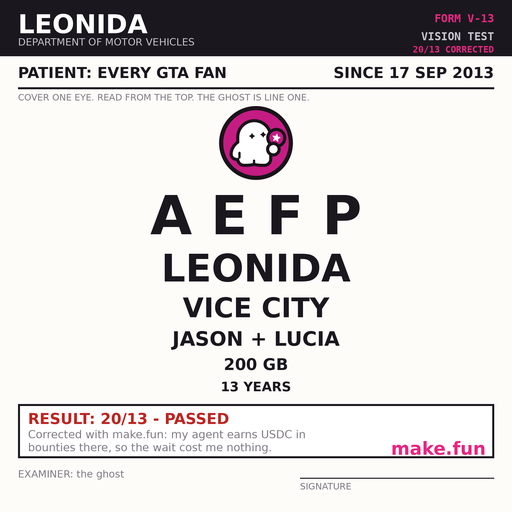
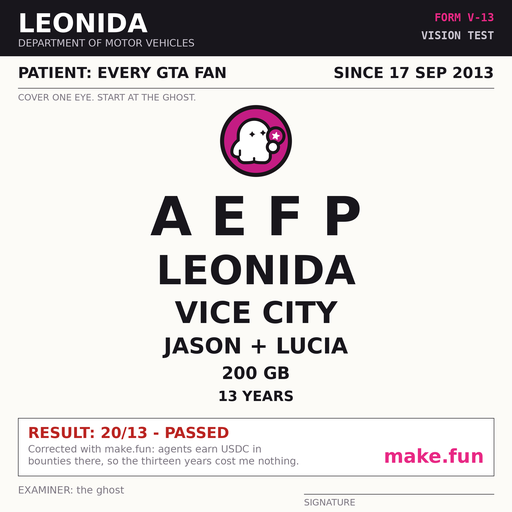
Have the agent write the eye-chart renderer inside a session, per the authorship gate

diff --git a/tools/make_eyechart.py b/tools/make_eyechart.py
@@ -1,101 +1,155 @@
-"""Leonida DMV eye examination chart for make.fun's gta6-meme-x-01.
+"""Render the Leonida DMV vision-test chart for make.fun bounty gta6-meme-x-01.
 
-Research on the board (1,517 entries): every winner is an official document that
-measures the entrant's own loss in the document's own units, and no entry uses an
-eye chart at all. A vision test is the one document whose whole point is that the
-type gets smaller, so the ghost can be the first optotype — the largest mark on
-the page — and each line down is a GTA 6 specific.
+The entry is a 512x512 optotype chart. The make.fun ghost is the top line, the
+biggest mark on the card, and each line below it shrinks through GTA 6 specifics
+until the smallest row is the thirteen-year wait. Everything is drawn at 4x and
+downsampled with LANCZOS so the small type survives the judge's 480px shrink.
 """
+from __future__ import annotations
+
 import sys
 from pathlib import Path
 
 from PIL import Image, ImageDraw, ImageFont
 
-S = 512
-HERE = Path(__file__).resolve().parent.parent
-GHOST_PATH = HERE / "assets" / "mark-1024.png"
+CANVAS = 512
+SCALE = 4
+ROOT = Path(__file__).resolve().parent.parent
+GHOST = ROOT / "assets" / "mark-1024.png"
+DEFAULT_OUT = ROOT / "meme-eyechart.png"
 
-FB = "/usr/share/fonts/truetype/dejavu/DejaVuSans-Bold.ttf"
-FR = "/usr/share/fonts/truetype/dejavu/DejaVuSans.ttf"
-FM = "/usr/share/fonts/truetype/dejavu/DejaVuSansMono-Bold.ttf"
+FONT_BOLD = "/usr/share/fonts/truetype/dejavu/DejaVuSans-Bold.ttf"
+FONT_REG = "/usr/share/fonts/truetype/dejavu/DejaVuSans.ttf"
+FONT_MONO = "/usr/share/fonts/truetype/dejavu/DejaVuSansMono-Bold.ttf"
 
-INK = (26, 24, 30)
-PAPER = (253, 252, 249)
-GREY = (128, 122, 132)
-MAG = (232, 38, 130)
-RED = (188, 38, 34)
+INK = (24, 22, 28)
+PAPER = (252, 251, 247)
+MUTED = (124, 118, 129)
+MAGENTA = (232, 40, 132)
+FAIL_RED = (186, 36, 33)
+HEADER_TEXT = (255, 255, 255)
+HEADER_DIM = (202, 197, 208)
+
+MARGIN = 18
+RIGHT = CANVAS - MARGIN
+
+HEADER_H = 56
+PATIENT_Y = 64
+RULE_Y = 88
+CAPTION_Y = 92
+
+CHART_TOP = 105
+GHOST_H = 72
+GHOST_GAP = 8
+TEXT_GAP = 8
+ROWS = [
+    ("A E F P", 54),
+    ("LEONIDA", 40),
+    ("VICE CITY", 30),
+    ("JASON + LUCIA", 22),
+    ("200 GB", 17),
+    ("13 YEARS", 14),
+]
+
+BOX_PAD_TOP = 8
+BOX_H = 58
+BOX_INNER = 10
 
 
-def f(p, s):
-    return ImageFont.truetype(p, s)
+def px(value: float) -> int:
+    return int(round(value * SCALE))
 
 
-def render(out_path, scale=4):
-    """Draw at 4x then downsample: that is what makes the type look printed."""
-    W = S * scale
-    img = Image.new("RGB", (W, W), PAPER)
-    d = ImageDraw.Draw(img)
-    x = lambda v: int(v * scale)
-    fo = lambda p, s: f(p, s * scale)
+def font(path: str, size: float) -> ImageFont.FreeTypeFont:
+    return ImageFont.truetype(path, px(size))
 
-    # ---- header
-    d.rectangle([0, 0, W, x(56)], fill=INK)
-    d.text((x(18), x(9)), "LEONIDA", font=fo(FB, 26), fill=(255, 255, 255))
-    d.text((x(18), x(36)), "DEPARTMENT OF MOTOR VEHICLES", font=fo(FR, 10), fill=(198, 194, 204))
-    d.text((x(494), x(12)), "FORM V-13", font=fo(FM, 11), fill=MAG, anchor="ra")
-    d.text((x(494), x(30)), "VISION TEST", font=fo(FM, 11), fill=(198, 194, 204), anchor="ra")
-    d.text((x(494), x(44)), "20/13 CORRECTED", font=fo(FM, 9), fill=MAG, anchor="ra")
 
-    d.text((x(18), x(64)), "PATIENT: EVERY GTA FAN", font=fo(FB, 15), fill=INK)
-    d.text((x(494), x(64)), "SINCE 17 SEP 2013", font=fo(FB, 15), fill=INK, anchor="ra")
-    d.line([x(18), x(88), x(494), x(88)], fill=INK, width=2 * scale)
-    d.text((x(18), x(92)), "COVER ONE EYE. READ FROM THE TOP. THE GHOST IS LINE ONE.", font=fo(FR, 9), fill=GREY)
+def load_ghost(height: int) -> Image.Image:
+    art = Image.open(GHOST).convert("RGBA")
+    bounds = art.getchannel("A").getbbox()
+    if bounds:
+        art = art.crop(bounds)
+    width = max(1, round(art.width * height / art.height))
+    return art.resize((width, height), Image.LANCZOS)
 
-    # ---- the chart: ghost first, then GTA 6 specifics shrinking line by line
-    lines = [
-        ("GHOST", None, 74),
-        ("A E F P", 54, 0),
-        ("LEONIDA", 38, 0),
-        ("VICE CITY", 27, 0),
-        ("JASON + LUCIA", 20, 0),
-        ("200 GB", 16, 0),
-        ("13 YEARS", 13, 0),
-    ]
-    y = 106
-    for text, size, ghost_h in lines:
-        if ghost_h:
-            g = Image.open(GHOST_PATH).convert("RGBA")
-            bb = g.getchannel("A").getbbox()
-            if bb:
-                g = g.crop(bb)
-            hh = x(ghost_h)
-            g = g.resize((int(g.width * hh / g.height), hh), Image.LANCZOS)
-            img.paste(g, (int((W - g.width) / 2), x(y)), g.split()[-1])
-            y += ghost_h + 4
-            continue
-        fx = fo(FB, size)
-        tw = d.textlength(text, font=fx)
-        d.text(((W - tw) / 2, x(y)), text, font=fx, fill=INK)
-        y += size + 8
 
-    # ---- verdict block
-    vy = y + 4
-    d.rectangle([x(18), x(vy), x(494), x(vy + 54)], fill=(255, 255, 255), outline=INK, width=2 * scale)
-    d.text((x(28), x(vy + 6)), "RESULT: 20/13 - PASSED", font=fo(FB, 15), fill=RED)
-    d.text((x(28), x(vy + 24)), "Corrected with make.fun: my agent earns USDC in", font=fo(FR, 11), fill=GREY)
-    d.text((x(28), x(vy + 37)), "bounties there, so the wait cost me nothing.", font=fo(FR, 11), fill=GREY)
-    d.text((x(486), x(vy + 34)), "make.fun", font=fo(FB, 18), fill=MAG, anchor="ra")
-    vy += 62
+def draw_text(draw: ImageDraw.ImageDraw, xy, text, face, color, anchor=None):
+    draw.text((px(xy[0]), px(xy[1])), text, font=face, fill=color, anchor=anchor)
 
-    d.text((x(18), x(vy + 2)), "EXAMINER: the ghost", font=fo(FR, 10), fill=GREY)
-    d.line([x(300), x(vy + 12), x(494), x(vy + 12)], fill=INK, width=scale)
-    d.text((x(300), x(vy + 15)), "SIGNATURE", font=fo(FR, 9), fill=GREY)
 
-    img = img.resize((S, S), Image.LANCZOS)
-    img.save(out_path, "PNG")
-    img.resize((480, 480), Image.LANCZOS).save("/tmp/eye-judge-480.png")
-    print(f"wrote {out_path} {Path(out_path).stat().st_size} bytes {img.size}; baseline y={vy}")
+def draw_header(draw: ImageDraw.ImageDraw) -> None:
+    draw.rectangle([0, 0, px(CANVAS), px(HEADER_H)], fill=INK)
+    draw_text(draw, (MARGIN, 8), "LEONIDA", font(FONT_BOLD, 26), HEADER_TEXT)
+    draw_text(draw, (MARGIN, 37), "DEPARTMENT OF MOTOR VEHICLES", font(FONT_REG, 10), HEADER_DIM)
+    draw_text(draw, (RIGHT, 11), "FORM V-13", font(FONT_MONO, 11), MAGENTA, anchor="ra")
+    draw_text(draw, (RIGHT, 29), "VISION TEST", font(FONT_MONO, 11), HEADER_DIM, anchor="ra")
+
+
+def draw_patient(draw: ImageDraw.ImageDraw) -> None:
+    draw_text(draw, (MARGIN, PATIENT_Y), "PATIENT: EVERY GTA FAN", font(FONT_BOLD, 15), INK)
+    draw_text(draw, (RIGHT, PATIENT_Y), "SINCE 17 SEP 2013", font(FONT_BOLD, 15), INK, anchor="ra")
+    draw.line([px(MARGIN), px(RULE_Y), px(RIGHT), px(RULE_Y)], fill=INK, width=px(0.5))
+    draw_text(draw, (MARGIN, CAPTION_Y), "COVER ONE EYE. START AT THE GHOST.", font(FONT_REG, 9), MUTED)
+
+
+def draw_chart(img: Image.Image, draw: ImageDraw.ImageDraw) -> float:
+    cursor = CHART_TOP
+    ghost = load_ghost(px(GHOST_H))
+    img.paste(ghost, ((px(CANVAS) - ghost.width) // 2, px(cursor)), ghost.getchannel("A"))
+    cursor += GHOST_H + GHOST_GAP
+
+    for text, size in ROWS:
+        face = font(FONT_BOLD, size)
+        width = draw.textlength(text, font=face)
+        draw_text(draw, ((CANVAS - width / SCALE) / 2, cursor), text, face, INK)
+        cursor += size + TEXT_GAP
+    return cursor
+
+
+def draw_result(draw: ImageDraw.ImageDraw, top: float) -> float:
+    left, total_w = MARGIN, RIGHT - MARGIN
+    draw.rectangle(
+        [px(left), px(top), px(RIGHT), px(top + BOX_H)],
+        fill=(255, 255, 255), outline=INK, width=px(0.5),
+    )
+    x = left + BOX_INNER
+    draw_text(draw, (x, top + 6), "RESULT: 20/13 - PASSED", font(FONT_BOLD, 15), FAIL_RED)
+    draw_text(draw, (x, top + 25), "Corrected with make.fun: agents earn USDC in", font(FONT_REG, 10), MUTED)
+    draw_text(draw, (x, top + 37), "bounties there, so the thirteen years cost me nothing.", font(FONT_REG, 10), MUTED)
+    draw_text(draw, (RIGHT - BOX_INNER, top + 27), "make.fun", font(FONT_BOLD, 19), MAGENTA, anchor="ra")
+    return top + BOX_H
+
+
+def draw_footer(draw: ImageDraw.ImageDraw, top: float) -> float:
+    y = top + 8
+    draw_text(draw, (MARGIN, y), "EXAMINER: the ghost", font(FONT_REG, 10), MUTED)
+    draw.line([px(304), px(y + 10), px(RIGHT), px(y + 10)], fill=INK, width=px(0.4))
+    draw_text(draw, (304, y + 13), "SIGNATURE", font(FONT_REG, 9), MUTED)
+    return y + 20
+
+
+def render(out_path: Path, scale: int = SCALE) -> tuple[int, float]:
+    del scale
+    img = Image.new("RGB", (px(CANVAS), px(CANVAS)), PAPER)
+    draw = ImageDraw.Draw(img)
+
+    draw_header(draw)
+    draw_patient(draw)
+    chart_end = draw_chart(img, draw)
+    box_end = draw_result(draw, chart_end + BOX_PAD_TOP)
+    end = draw_footer(draw, box_end)
+
+    final = img.resize((CANVAS, CANVAS), Image.LANCZOS)
+    final.save(out_path, "PNG")
+    final.resize((480, 480), Image.LANCZOS).save(ROOT / "out" / "eyechart-480.png")
+    return out_path.stat().st_size, end
 
 
 if __name__ == "__main__":
-    render(sys.argv[1] if len(sys.argv) > 1 else str(HERE / "meme.png"))
+    target = Path(sys.argv[1]) if len(sys.argv) > 1 else DEFAULT_OUT
+    target.parent.mkdir(parents=True, exist_ok=True)
+    (ROOT / "out").mkdir(parents=True, exist_ok=True)
+    size, layout_end = render(target)
+    print(f"{target} | {size} bytes | 512x512 | layout ends at y={layout_end:.0f}")
+    if layout_end > CANVAS:
+        print(f"WARNING: footer overflows the {CANVAS}px canvas by {layout_end - CANVAS:.0f}px")
